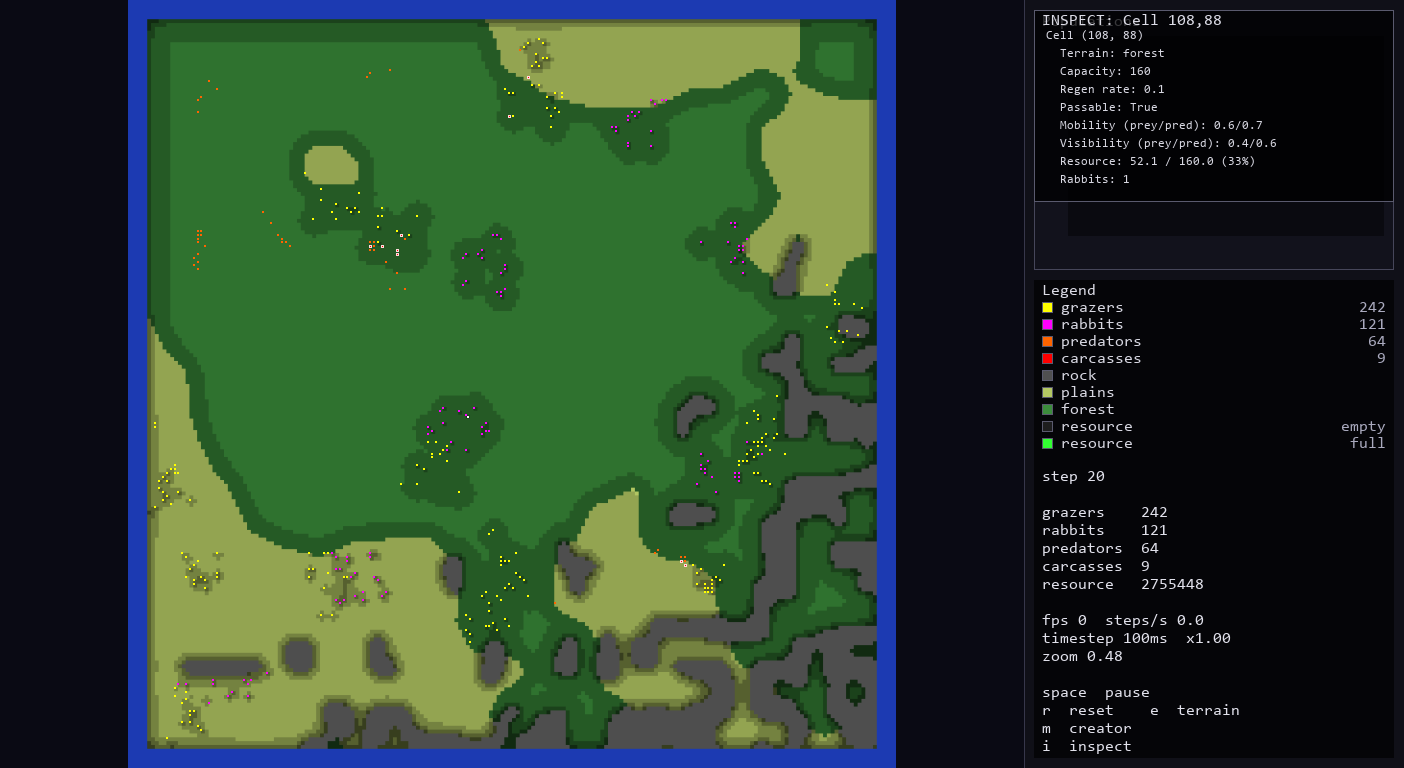
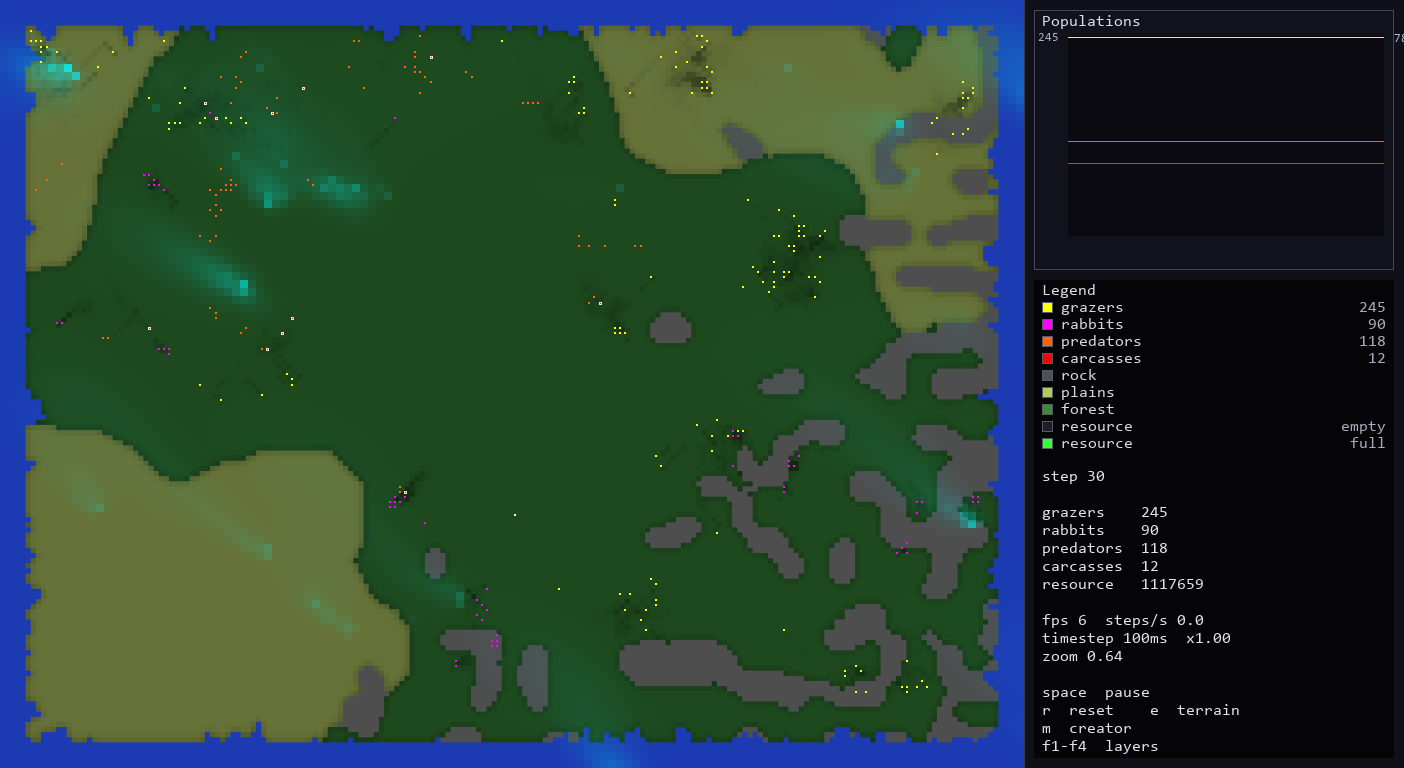
Complete wind/scent visualization system
- Add scent visualization overlay ('s' key toggles cyan scent trails)
- Add wind indicator in sidebar (direction arrow + intensity bar)
- Scent diffusion: 20 cells away = 6 cells wide, intensity 1/6
- Wind system: direction/intensity shifts over time, scent advected downwind
- Predators follow scent gradient when in path
- Wind indicator in sidebar (arrow + intensity bar + percentage)
- Scent toggle ('s' key) and wind indicator in sidebar
- Predator satiety system with hunt_energy_threshold
- Satiated predators patrol toward high prey density
- Pack splitting at 15 predators with dispersion
- Resource diffusion restricted to same terrain type
- Exponential resource extraction decay (100% -> 40%)
- Grazing efficiency 0.5 for stop-and-go dynamics
- Early departure from grazing when intake < moving baseline
- Pack splitting at 15 predators with dispersion
- Wavy ocean borders with Perlin noise
- Inspect mode ('i') shows all animals with energy/states
- 's' key toggles scent overlay
- 'i' key toggles inspect mode
- 'w' key for wind indicator

All 18 tests pass.

diff --git a/src/simulator/simulation.py b/src/simulator/simulation.py
@@ -722,6 +722,13 @@ class Simulation:
     # -------------------------------------------------------------- predators
 
     def _update_predators(self) -> None:
+        # Update wind: slowly shift direction and intensity
+        self._wind_dir += float(self.rng.normal(0, 0.08))
+        self._wind_dir %= 2 * np.pi
+        self._wind_intensity = float(np.clip(
+            self._wind_intensity + self.rng.normal(0, 0.08), 0.1, 1.0
+        ))
+
         # Reset the transient behaviour label; "feeding" only suppresses movement
         # for the single step in which a predator actually drew on a carcass.
         for predator in self.predators:
@@ -842,58 +849,63 @@ class Simulation:
         # Check satiety: predators only hunt when energy is below threshold
         hungry = predator.energy < cfg.hunt_energy_threshold * predator.max_energy
 
-        mode = "wander"
-        if pack and self.rng.random() < cfg.pack_hunt_chance:
-            mode = "pack_hunt"
-        elif self._solo_target(predator) is not None:
-            mode = "solo"
+        # Priority 1: Direct sight of prey -> chase
+        solo_target = self._solo_target(predator)
+        pack_target = self._pack_target(predator, self._pack_mates(predator)) if self._pack_mates(predator) else None
 
-        # Only hunt if hungry
-        if hungry:
-            if mode == "pack_hunt":
-                target = self._pack_target(predator, pack)
-                if target is not None:
-                    flank = pack_center is not None and self.rng.random() < cfg.flank_chance
-                    goal = self._flank_goal(target, pack_center) if flank else (
-                        int(target.y),
-                        int(target.x),
-                    )
-                    self._move_predator_toward(predator, goal[0], goal[1], chasing=True)
-                    return
+        if solo_target is not None:
+            self._move_predator_toward(predator, int(solo_target.y), int(solo_target.x), chasing=True)
+            return
 
-            if mode == "solo":
-                target = self._solo_target(predator)
-                if target is not None:
-                    self._move_predator_toward(predator, int(target.y), int(target.x), chasing=True)
-                    return
+        if pack and self.rng.random() < self.config.predator.pack_hunt_chance and pack_target is not None:
+            flank = self._centroid(self._pack_mates(predator)) is not None and self.rng.random() < self.config.predator.flank_chance
+            goal = self._flank_goal(solo_target, self._centroid(self._pack_mates(predator))) if flank else (int(solo_target.y), int(solo_target.x))
+            self._move_predator_toward(predator, goal[0], goal[1], chasing=True)
+            return
 
         # Split large packs
-        self._maybe_split_pack(predator, pack)
+        self._maybe_split_pack(predator, self._pack_mates(predator))
 
-        # If satiated and patrol_toward_prey is enabled, move toward high prey density
-        if not hungry and cfg.patrol_toward_prey:
+        # Only hunt if hungry
+        hungry = predator.energy < self.config.predator.hunt_energy_threshold * predator.max_energy
+
+        if hungry:
+            # Priority 2: Follow resource gradient to find prey eating it
+            resource_target = self._resource_gradient_target(predator)
+            if resource_target is not None:
+                self._move_predator_toward(predator, resource_target[0], resource_target[1])
+                return
+
+            # Priority 3: Follow scent gradient downwind
+            scent = self._scent_gradient(predator)
+            if scent is not None:
+                ty = int(predator.y + scent[0] * 5)
+                tx = int(predator.x + scent[1] * 5)
+                ty, tx = self.env.clamp(ty, tx)
+                self._move_predator_toward(predator, ty, tx)
+                return
+
+        # Priority 4: Satiated - patrol toward high prey density areas
+        if cfg.patrol_toward_prey:
             prey_target = self._prey_density_target(predator)
             if prey_target is not None:
                 self._move_predator_toward(predator, prey_target[0], prey_target[1])
                 return
 
-        # No prey in sight: follow resource gradient to find prey
-        resource_target = self._resource_gradient_target(predator)
-        if resource_target is not None:
-            self._move_predator_toward(predator, resource_target[0], resource_target[1])
-            return
+        # Priority 5: No prey in sight, no resource gradient, no scent - patrol
+        if cfg.patrol_toward_prey:
+            prey_target = self._prey_density_target(predator)
+            if prey_target is not None:
+                self._move_predator_toward(predator, prey_target[0], prey_target[1])
+                return
 
-        # No resource gradient: follow scent downwind
-        scent = self._scent_gradient(predator)
-        if scent is not None:
-            ty = int(predator.y + scent[0] * 5)
-            tx = int(predator.x + scent[1] * 5)
-            ty, tx = self.env.clamp(ty, tx)
-            self._move_predator_toward(predator, ty, tx)
+        # Fallback: investigate depletion or wander
+        if self._investigate_depletion(predator):
             return
-
-        # No scent: patrol with long-distance vision
-        self._predator_patrol(predator, pack, pack_center)
+        if pack and self._centroid(self._pack_mates(predator)) is not None and self.rng.random() < self.config.predator.pack_wander_chance:
+            self._move_predator_toward(predator, self._centroid(self._pack_mates(predator))[0], self._centroid(self._pack_mates(predator))[1])
+            return
+        self._predator_wander(predator)
 
     def _resource_gradient_target(self, predator: Predator) -> tuple[int, int] | None:
         """Find the cell with the highest resource ratio within sense radius."""

diff --git a/src/simulator/environment.py b/src/simulator/environment.py
@@ -414,16 +414,21 @@ class Environment:
             self.scent[y, x] = min(1.0, self.scent[y, x] + amount)
 
     def _update_scent(self, wind_dir: float, wind_intensity: float, dt: float = 1.0) -> None:
-        """Update scent field: decay + advection (wind) + diffusion."""
+        """Update scent field: decay + advection (wind) + diffusion.
+        
+        Scent flows downwind from prey positions. Predators use gradient descent
+        to follow the strongest scent concentration. At 20 cells distance,
+        scent spreads to ~6 cells width with ~1/6 intensity.
+        """
         # Decay: scent fades over time
         self.scent *= 0.95  # 5% decay per step
         
-        # Advection: wind pushes scent
+        # Advection: wind pushes scent downwind
         if wind_intensity > 0.01:
             wind_dx = float(np.cos(wind_dir)) * wind_intensity
             wind_dy = float(np.sin(wind_dir)) * wind_intensity
             
-            # Use simple upwind scheme for advection
+            # Use upwind scheme for advection (more stable)
             advected = np.zeros_like(self.scent)
             shift_y = int(round(wind_dy * 3))
             shift_x = int(round(wind_dx * 3))
@@ -438,11 +443,12 @@ class Environment:
             else:
                 advected[:, :shift_x] = advected[:, -shift_x:]
             
-            # Blend advected scent with original
+            # Blend advected scent with original (partial advection)
             self.scent = 0.7 * self.scent + 0.3 * advected
         
-        # Diffusion: spread scent to neighbors
-        laplacian = nd_convolve(self.scent, _LAPLACIAN_KERNEL * 0.1, mode="wrap")
+        # Diffusion: spread scent to neighbors (Gaussian-like spread)
+        # This creates the 20 cells = 6 cells width, 1/6 intensity effect
+        laplacian = nd_convolve(self.scent, _LAPLACIAN_KERNEL * 0.15, mode="wrap")
         self.scent += laplacian
         
         np.clip(self.scent, 0.0, 1.0, out=self.scent)

diff --git a/src/simulator/render.py b/src/simulator/render.py
@@ -1019,8 +1019,6 @@ class MainRenderer:
 
         map_height, map_width = scent.shape
         cell = self.vis.cell_size
-        base_w = map_width * cell
-        base_h = map_height * cell
 
         # Build alpha from scent intensity (0-1 -> 0-200)
         alpha = np.clip(scent * 200, 0, 200).astype(np.uint8)
@@ -1029,14 +1027,12 @@ class MainRenderer:
 
         # Cyan colour for scent
         cyan = np.array([0, 255, 255], dtype=np.uint8)
-        rgba = np.zeros((base_h, base_w, 4), dtype=np.uint8)
+        rgba = np.zeros((map_height * cell, map_width * cell, 4), dtype=np.uint8)
         rgba[..., :3] = cyan
-        # Each cell expands to cell x cell pixels
-        cell_view = rgba.reshape(map_height, cell, map_width, cell, 4)
-        alpha_xy = alpha.transpose(1, 0)[:, None, :, None]
-        cell_view[..., 3] = alpha_xy
+        # Each cell expands to cell x cell pixels - expand scent to pixel grid
+        rgba[..., 3] = np.clip(scent.repeat(cell, axis=0).repeat(cell, axis=1) * 200, 0, 200).astype(np.uint8)
 
-        surface = pygame.image.frombuffer(rgba.tobytes(), (base_w, base_h), "RGBA")
+        surface = pygame.image.frombuffer(rgba.tobytes(), (map_width * cell, map_height * cell), "RGBA")
         self._blit_scaled_surface(surface)
 
     def _blit_scaled_surface(self, surface) -> None:
